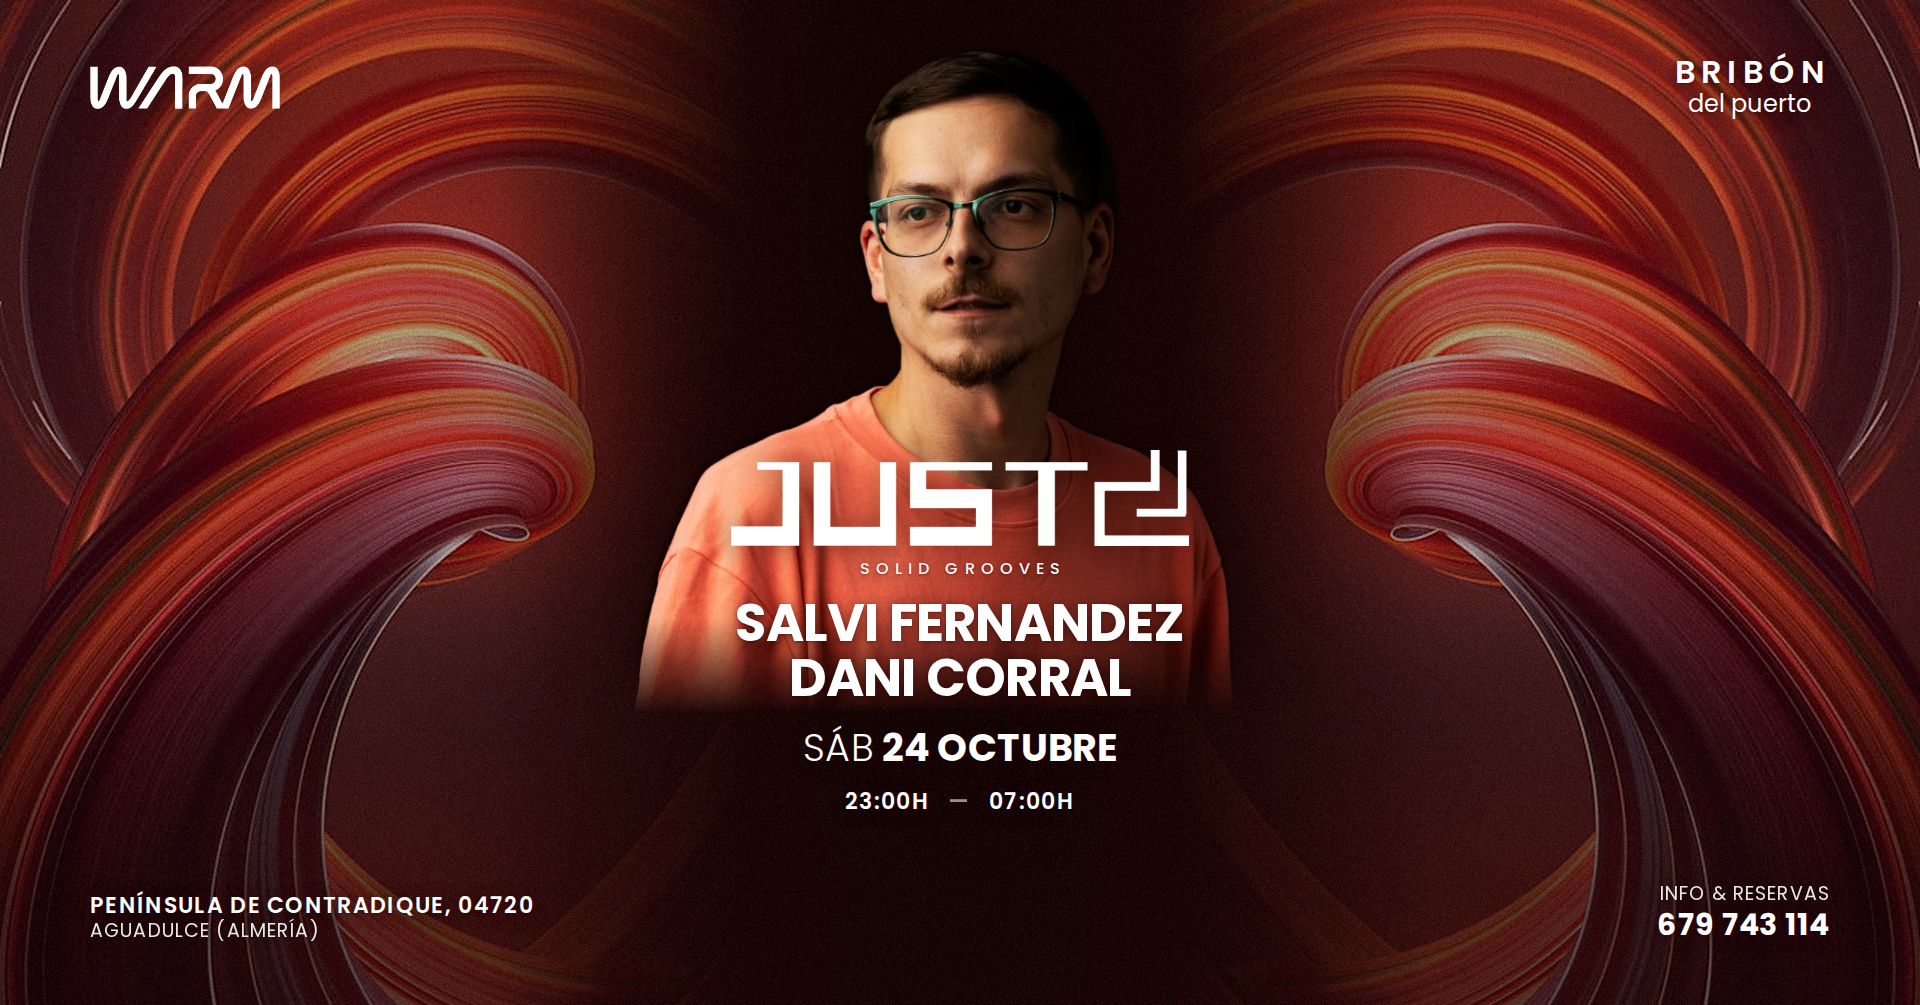
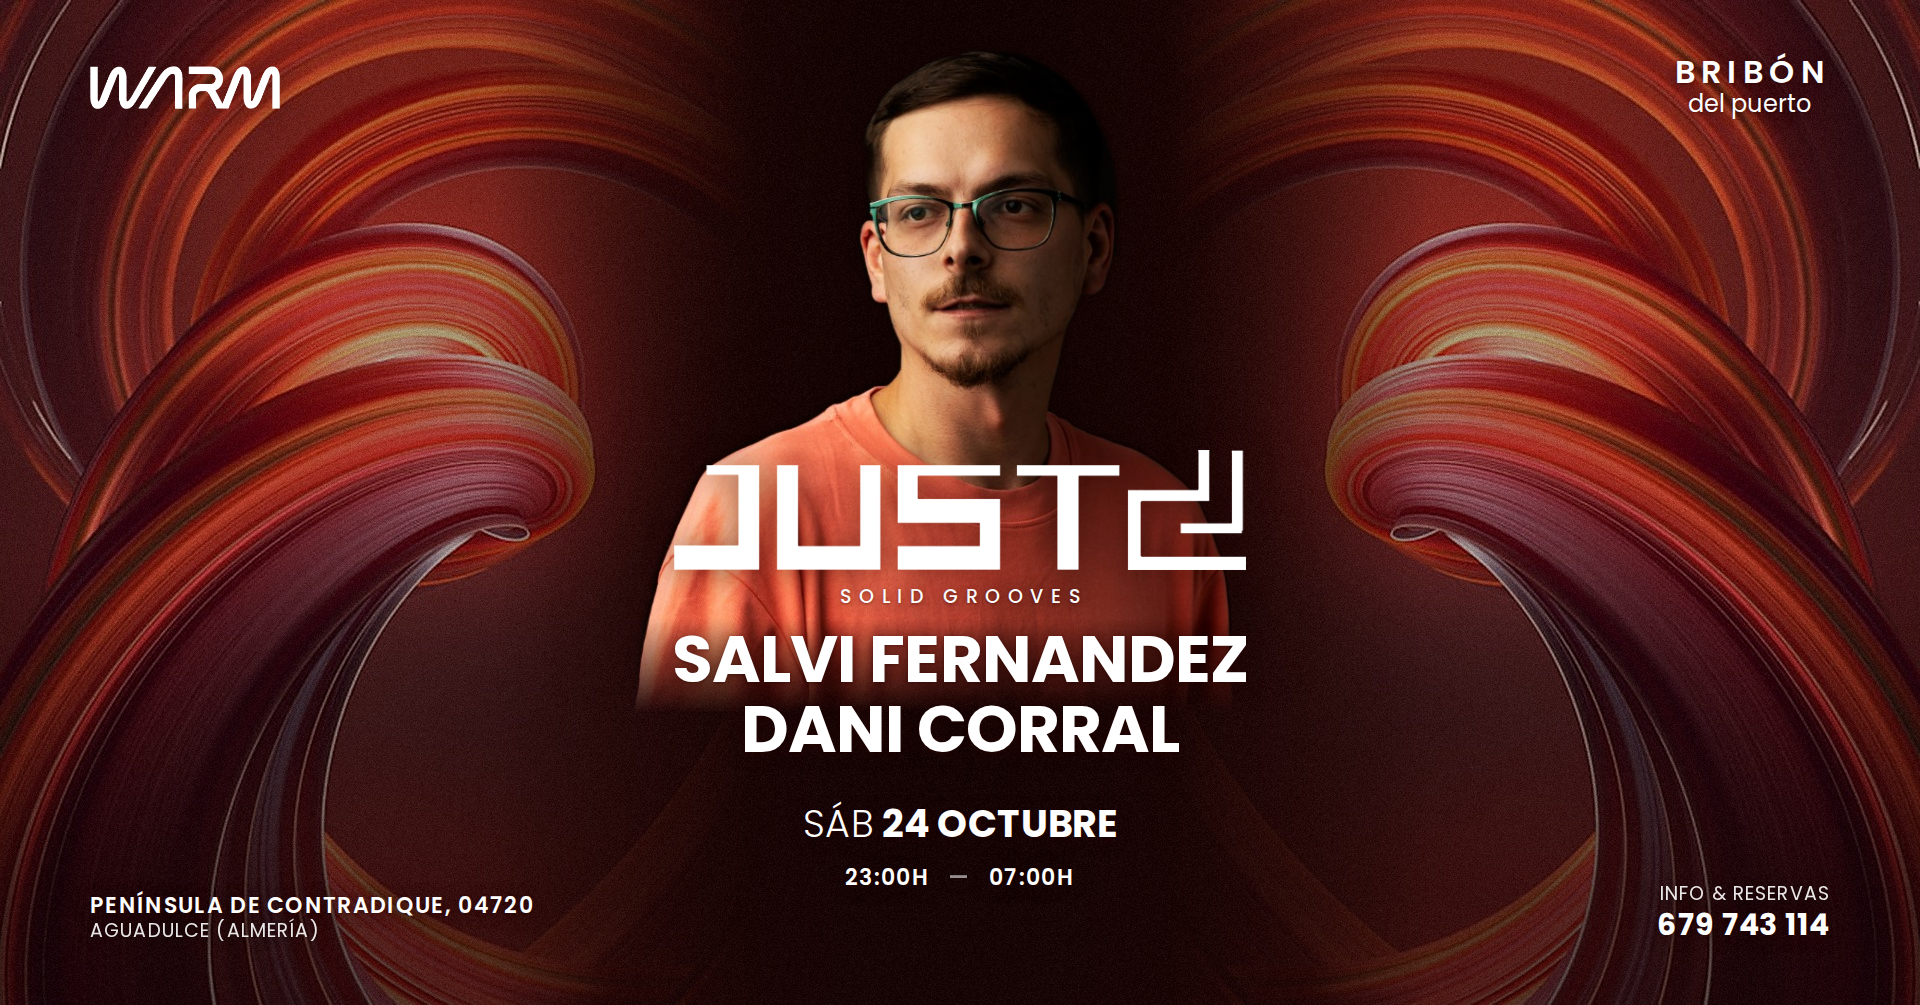
WARM 24.10 — coperte: artiști mai mari, dată separată de lineup
Claude-Session: https://claude.ai/code/session_01PsYJ7xTqRMzxVLnVuQx1Lt

Changed region(s): [[0.3438, 0.4318, 0.6562, 0.8328], [0.4375, 0.8637, 0.5625, 0.8945]]

diff --git a/warm_24oct/cover_851_center.html b/warm_24oct/cover_851_center.html
@@ -12,11 +12,11 @@ img.sh{filter:drop-shadow(0 1px 7px rgba(40,5,0,.5))}
 .tr b{display:block;font-weight:600;font-size:14px;letter-spacing:.2em;padding-left:.2em}
 .tr i{display:block;font-style:normal;font-weight:400;font-size:11px;text-transform:none;margin-top:2px}
 .tr small{display:block;font-weight:500;font-size:8px;letter-spacing:.14em;margin-top:6px;opacity:.9}
-.c{position:absolute;left:0;right:0;top:178px;display:flex;flex-direction:column;align-items:center;text-align:center}
-.j2{height:26px}
-.label{font-weight:500;font-size:7px;letter-spacing:.38em;padding-left:.38em;margin:3px 0 4px}
-.n{font-weight:700;font-size:15px;line-height:1.05;letter-spacing:-.01em}
-.date{font-weight:700;font-size:11.5px;line-height:1;margin-top:6px;letter-spacing:.01em}
+.c{position:absolute;left:0;right:0;top:170px;display:flex;flex-direction:column;align-items:center;text-align:center}
+.j2{height:30px}
+.label{font-weight:500;font-size:7.5px;letter-spacing:.38em;padding-left:.38em;margin:3px 0 4px}
+.n{font-weight:700;font-size:19px;line-height:1.05;letter-spacing:-.01em}
+.date{font-weight:700;font-size:11.5px;line-height:1;margin-top:10px;letter-spacing:.01em}
 .date span{font-weight:300}
 .date em{display:block;font-style:normal;font-weight:600;font-size:10px;letter-spacing:.08em;margin-top:4px}
 .l2{font-weight:500;font-size:8.5px;letter-spacing:.07em;margin-top:7px;opacity:.92}

diff --git a/warm_24oct/cover_center.html b/warm_24oct/cover_center.html
@@ -12,10 +12,10 @@ img.sh{filter:drop-shadow(0 2px 14px rgba(40,5,0,.5))}
 .tr b{display:block;font-weight:600;font-size:32px;letter-spacing:.2em;padding-left:.2em}
 .tr i{display:block;font-style:normal;font-weight:400;font-size:24px;text-transform:none;margin-top:4px}
 .c{position:absolute;left:0;right:0;top:450px;display:flex;flex-direction:column;align-items:center;text-align:center}
-.j2{height:96px}
-.label{font-weight:500;font-size:16px;letter-spacing:.38em;padding-left:.38em;margin:10px 0 14px}
-.n{font-weight:700;font-size:52px;line-height:1.06;letter-spacing:-.015em}
-.date{font-weight:700;font-size:38px;letter-spacing:.01em;line-height:1;margin-top:24px}
+.j2{height:120px}
+.label{font-weight:500;font-size:19px;letter-spacing:.4em;padding-left:.4em;margin:12px 0 14px}
+.n{font-weight:700;font-size:66px;line-height:1.06;letter-spacing:-.015em}
+.date{font-weight:700;font-size:38px;letter-spacing:.01em;line-height:1;margin-top:40px}
 .date span{font-weight:300}
 .l1{font-weight:600;font-size:22px;letter-spacing:.06em;margin-top:18px}
 .l2{font-weight:500;font-size:17px;letter-spacing:.07em;margin-top:12px;opacity:.9}
